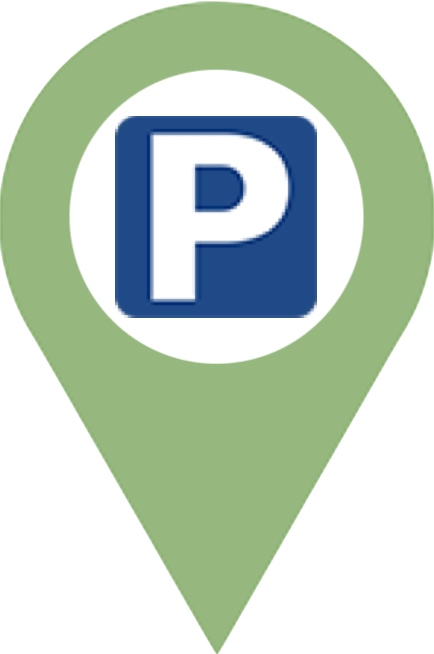
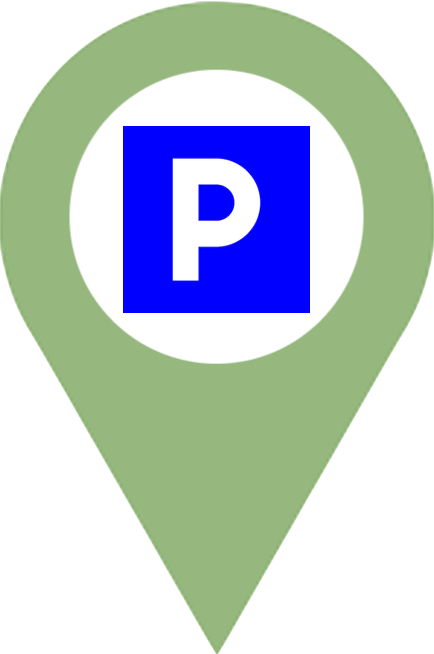
Ajout leftpan pour parkings
La gestion des places disponibles n'est pas encore implémentée

Changed region(s): [[0.2396, 0.1529, 0.7488, 0.4893]]

diff --git a/js/pan.js b/js/pan.js
@@ -52,6 +52,13 @@ var leftPan = {
     else{
       $('.Vlille').css("display","none");
     }
+    if (typeof(places[id].parking_type) != 'undefined'){
+      $('.ParkingPlace').html("Places disponibles : "+placesParking.disponible(places[id].parking_id, places[id].parking_type)[0]+"<br>"+"Capacité max : "+placesParking.disponible(places[id].parking_id, places[id].parking_type)[1]);
+      $('.ParkingPlace').css("display","block");
+      console.log("pizza");
+    }else{
+      $('.ParkingPlace').css("display","none");
+    }
     if (places[id].twitter != ""){
       $('.twitterFeed').html('<a class="twitter-timeline" data-width="480" data-dnt="true" href="https://twitter.com/'+places[id].twitter+'?ref_src=twsrc%5Etfw" data-tweet-limit="5">Tweets by '+places[id].twitter+'</a> <script src="https://platform.twitter.com/widgets.js" charset="utf-8"></script>');
     }

diff --git a/js/markers.js b/js/markers.js
@@ -287,13 +287,13 @@ var markers = {
   },
   parkings : {
     add (){
-      let metro = L.icon({
-        iconUrl: "images/markers/metro.png",
+      let parking = L.icon({
+        iconUrl: "images/markers/parking.png",
         iconSize: [40, 60],
         iconAnchor: [20,55],
         popupAnchor: [0,0],
       });
-      console.log("add");
+      markerPARKING = L.marker([50.636788993222,3.0730428283576],{icon:parking}).addTo(theMap).on('click', function(e) { leftPan.open(this._latlng.lat, this._latlng.lng,"ParkingEurallile");});
     },
     remove (){
       console.log("remove");

diff --git a/css/leftPanContent.css b/css/leftPanContent.css
@@ -80,6 +80,18 @@
   background-color: #fff;
   border-radius: 5px;
 }
+.ParkingPlace{
+  margin: 3px;
+  font-size: 20px;
+  margin-left: 10px;
+  margin-right: 10px;
+  margin-bottom: 15px;
+  margin-top: 10px;
+  padding: 10px;
+  font-family: sans-serif;
+  background-color: #fff;
+  border-radius: 5px;
+}
 .infos a {
   text-decoration: none;
   color: #45B39D;

diff --git a/index.html b/index.html
@@ -18,6 +18,7 @@
   <script src="js/listeStationV_Lille.js"></script>
   <script src="js/v_Lille.js"></script>
   <script src="js/horairesBus.js"></script>
+  <script src="js/placesParking.js"></script>
   <title>InteractivCampus</title>
 </head>
 <body>

diff --git a/js/placesParking.js b/js/placesParking.js
@@ -1,0 +1,7 @@
+var placesParking = {
+  disponible(nomparking, typeparking){
+    console.log(nomparking);
+    res = ["chat", "peau"];
+    return res;
+  }
+}

diff --git a/html/pan/leftPan.html b/html/pan/leftPan.html
@@ -28,6 +28,8 @@
   </div>
   <div class="Vlille">
   </div>
+  <div class="ParkingPlace">
+  </div>
   <div class="twitterFeed">
   </div>
   </div>
